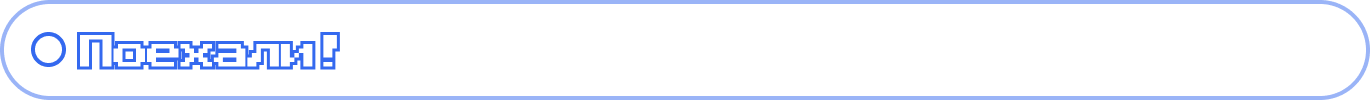
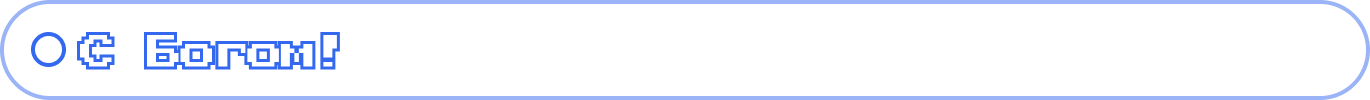
Сделал все кнопки информации одинаковыми, мелкике исправления интерфейся, добавил кнопку информации об разрабочиках

Changed region(s): [[0.0307, 0.3, 0.2453, 0.72]]

diff --git a/EducationalProduct/Classes/GameConfig.cs b/EducationalProduct/Classes/GameConfig.cs
@@ -61,22 +61,27 @@ namespace EducationalProduct.Classes
             TotalElement.MenuExit.Height = (int)(TotalElement.MenuExit.Width * 0.36);
             TotalElement.MenuExit.PositionOx = (CanvasProduct.Width - TotalElement.MenuExit.Width) / 2;
             TotalElement.MenuExit.PositionOy = (CanvasProduct.Height - TotalElement.MenuExit.Height) / 2;
+
             TotalElement.ButtonNo.Width = (int)(TotalElement.MenuExit.Width * 0.22f);
             TotalElement.ButtonNo.Height = (int)(TotalElement.MenuExit.Width * 0.22f);
             TotalElement.ButtonNo.PositionOx = TotalElement.MenuExit.PositionOx + TotalElement.MenuExit.Width - TotalElement.MenuExit.Width * 0.17f - TotalElement.ButtonNo.Width;
             TotalElement.ButtonNo.PositionOy = TotalElement.MenuExit.PositionOy + TotalElement.MenuExit.Height * 0.32f;
+
             TotalElement.ButtonYes.Width = (int)(TotalElement.MenuExit.Width * 0.22f);
             TotalElement.ButtonYes.Height = (int)(TotalElement.MenuExit.Width * 0.22f);
             TotalElement.ButtonYes.PositionOx = TotalElement.MenuExit.PositionOx + TotalElement.MenuExit.Width * 0.17f;
             TotalElement.ButtonYes.PositionOy = TotalElement.MenuExit.PositionOy + TotalElement.MenuExit.Height * 0.32f;
+
             TotalElement.BtnClosed.Height = (int)(MinValueCanvas * 0.1f);
             TotalElement.BtnClosed.Width = (int)(MinValueCanvas * 0.1f);
+            TotalElement.BtnClosed.PositionOx = (int)(CanvasProduct.Width - TotalElement.BtnClosed.Width - CanvasProduct.Width * 0.025f);
+            TotalElement.BtnClosed.PositionOy = (int)(CanvasProduct.Height * 0.02f);
+
             TotalElement.BtnQuestion.Height = (int)(MinValueCanvas * 0.1f);
             TotalElement.BtnQuestion.Width = (int)(MinValueCanvas * 0.1f);
-            TotalElement.BtnClosed.PositionOx = (int)(CanvasProduct.Width - TotalElement.BtnClosed.Width -  CanvasProduct.Width * 0.02f);
-            TotalElement.BtnClosed.PositionOy = (int)(CanvasProduct.Height * 0.02f);
             TotalElement.BtnQuestion.PositionOx = (int)(CanvasProduct.Width * 0.02f);
             TotalElement.BtnQuestion.PositionOy = (int)(CanvasProduct.Height * 0.02f);
+
             TotalElement.BackgroundMenuExit.Height = CanvasProduct.Height;
             TotalElement.BackgroundMenuExit.Width = CanvasProduct.Width;
         }
@@ -99,9 +104,14 @@ namespace EducationalProduct.Classes
             OpeningScene.BtnStartPlay.PositionOx = (CanvasProduct.Width - OpeningScene.BtnStartPlay.Width) / 2;
             OpeningScene.BtnStartPlay.PositionOy = (int)(CanvasProduct.Height * 0.415f);
 
+            OpeningScene.BtnDevInfo.Height = (int)(MinValueCanvas * 0.1f);
+            OpeningScene.BtnDevInfo.Width = (int)(MinValueCanvas * 0.1f);
+            OpeningScene.BtnDevInfo.PositionOx = (int)(CanvasProduct.Width - OpeningScene.BtnDevInfo.Width - CanvasProduct.Width * 0.92f);
+            OpeningScene.BtnDevInfo.PositionOy = (int)(CanvasProduct.Height * 0.02f);
+
             OpeningScene.BtnClosed.Height = (int)(MinValueCanvas * 0.1f);
             OpeningScene.BtnClosed.Width = (int)(MinValueCanvas * 0.1f);
-            OpeningScene.BtnClosed.PositionOx = (int)(CanvasProduct.Width - OpeningScene.BtnClosed.Width - CanvasProduct.Width * 0.02f);
+            OpeningScene.BtnClosed.PositionOx = (int)(CanvasProduct.Width - OpeningScene.BtnClosed.Width - CanvasProduct.Width * 0.025f);
             OpeningScene.BtnClosed.PositionOy = (int)(CanvasProduct.Height * 0.02f);
 
             OpeningScene.MenuExit.Width = (int)(CanvasProduct.Width * 0.41f);
@@ -788,6 +798,16 @@ namespace EducationalProduct.Classes
             public static class BtnStartPlay
             {
                 public static readonly Bitmap Sprite = GameResources.btnPlayStart;
+                public static int Height { get; set; }
+                public static int Width { get; set; }
+                public static float PositionOx { get; set; }
+                public static float PositionOy { get; set; }
+                public static Size Size => new Size(Width, Height);
+                public static PointF Point => new PointF(PositionOx, PositionOy);
+            }
+            public static class BtnDevInfo
+            {
+                public static readonly Bitmap Sprite = GameResources.btnDevInfo;
                 public static int Height { get; set; }
                 public static int Width { get; set; }
                 public static float PositionOx { get; set; }

diff --git a/EducationalProduct/Properties/Resources.Designer.cs b/EducationalProduct/Properties/Resources.Designer.cs
@@ -213,6 +213,16 @@ namespace EducationalProduct.Properties {
         /// <summary>
         ///   Поиск локализованного ресурса типа System.Drawing.Bitmap.
         /// </summary>
+        internal static System.Drawing.Bitmap btnDevInfo {
+            get {
+                object obj = ResourceManager.GetObject("btnDevInfo", resourceCulture);
+                return ((System.Drawing.Bitmap)(obj));
+            }
+        }
+        
+        /// <summary>
+        ///   Поиск локализованного ресурса типа System.Drawing.Bitmap.
+        /// </summary>
         internal static System.Drawing.Bitmap btnNextPlay {
             get {
                 object obj = ResourceManager.GetObject("btnNextPlay", resourceCulture);

diff --git a/EducationalProduct/Classes/GameResources.cs b/EducationalProduct/Classes/GameResources.cs
@@ -22,6 +22,7 @@ namespace EducationalProduct.Classes
         public static readonly Bitmap OpeningRocket = Properties.Resources.OpeningRocket;
         public static readonly Bitmap OpeningTitle = Properties.Resources.OpeningTitle;
         public static readonly Bitmap btnPlayStart = Properties.Resources.btnPlayStart;
+        public static readonly Bitmap btnDevInfo = Properties.Resources.btnDevInfo;
         public static readonly Bitmap СharacterRuleScene = Properties.Resources.СharacterRuleScene;
         public static readonly Bitmap txtRuleScene = Properties.Resources.txtRuleScene;
         public static readonly Bitmap CharacterRuleRepeatActionScene = Properties.Resources.CharacterRuleRepeatActionScene;

diff --git a/EducationalProduct/Classes/CashElementUI.cs b/EducationalProduct/Classes/CashElementUI.cs
@@ -159,6 +159,11 @@ namespace EducationalProduct.Classes
                 GameConfig.OpeningScene.BtnStartPlay.Size,
                 GameConfig.OpeningScene.BtnStartPlay.Point
                 );
+            public static readonly ElementUI btnDevInfo = new ElementUI(
+                GameConfig.OpeningScene.BtnDevInfo.Sprite,
+                GameConfig.OpeningScene.BtnDevInfo.Size,
+                GameConfig.OpeningScene.BtnDevInfo.Point
+                );
             public static readonly ElementUI btnClosed = new ElementUI(
                 GameConfig.OpeningScene.BtnClosed.Sprite,
                 GameConfig.OpeningScene.BtnClosed.Size,

diff --git a/EducationalProduct/Classes/ManagerUI.cs b/EducationalProduct/Classes/ManagerUI.cs
@@ -107,6 +107,7 @@ namespace EducationalProduct.Classes
             OpeningElements.Add(CashElementUI.OpeningElements.rocket);
             OpeningElements.Add(CashElementUI.OpeningElements.title);
             OpeningElements.Add(CashElementUI.OpeningElements.btnStartPlay);
+            OpeningElements.Add(CashElementUI.OpeningElements.btnDevInfo);
             OpeningElements.Add(CashElementUI.OpeningElements.btnClosed);
         }
         public static void AddRuleElements()
